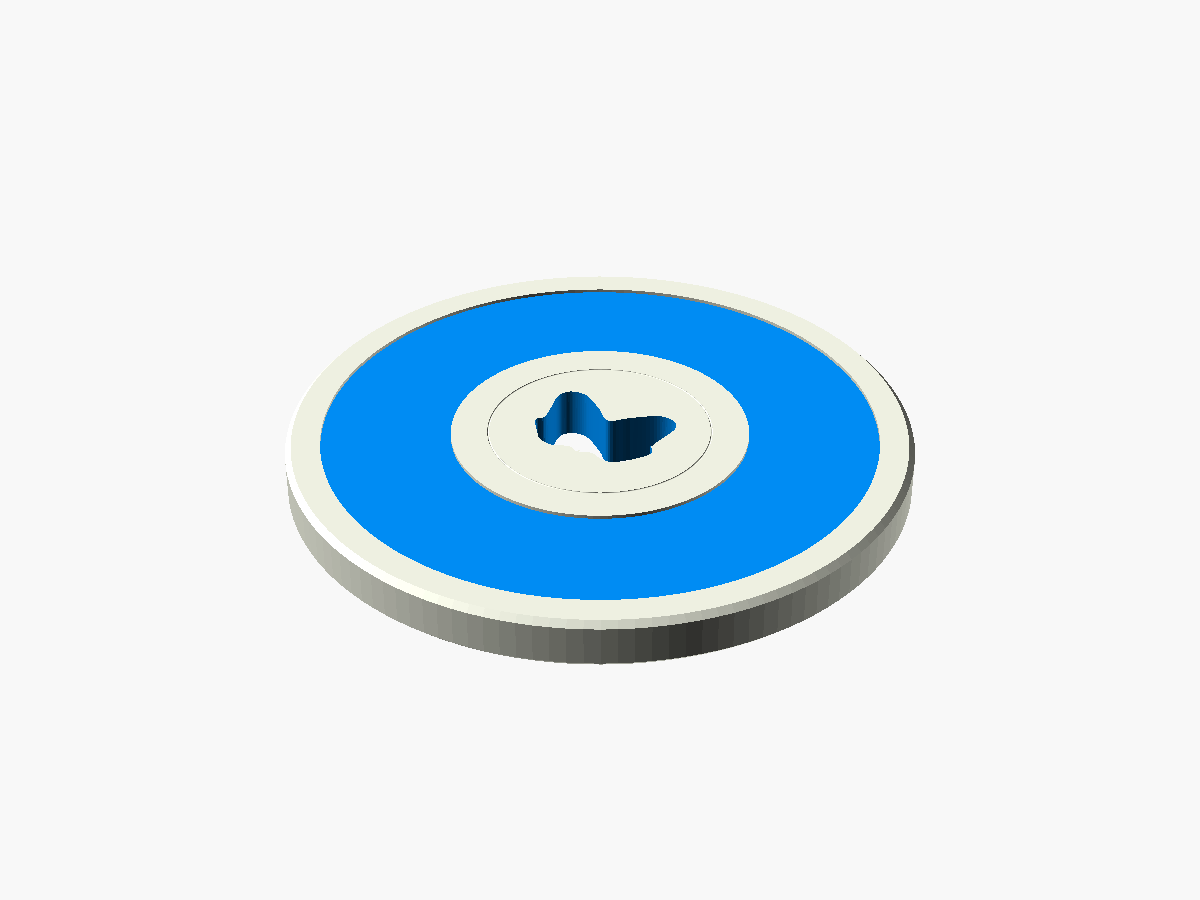
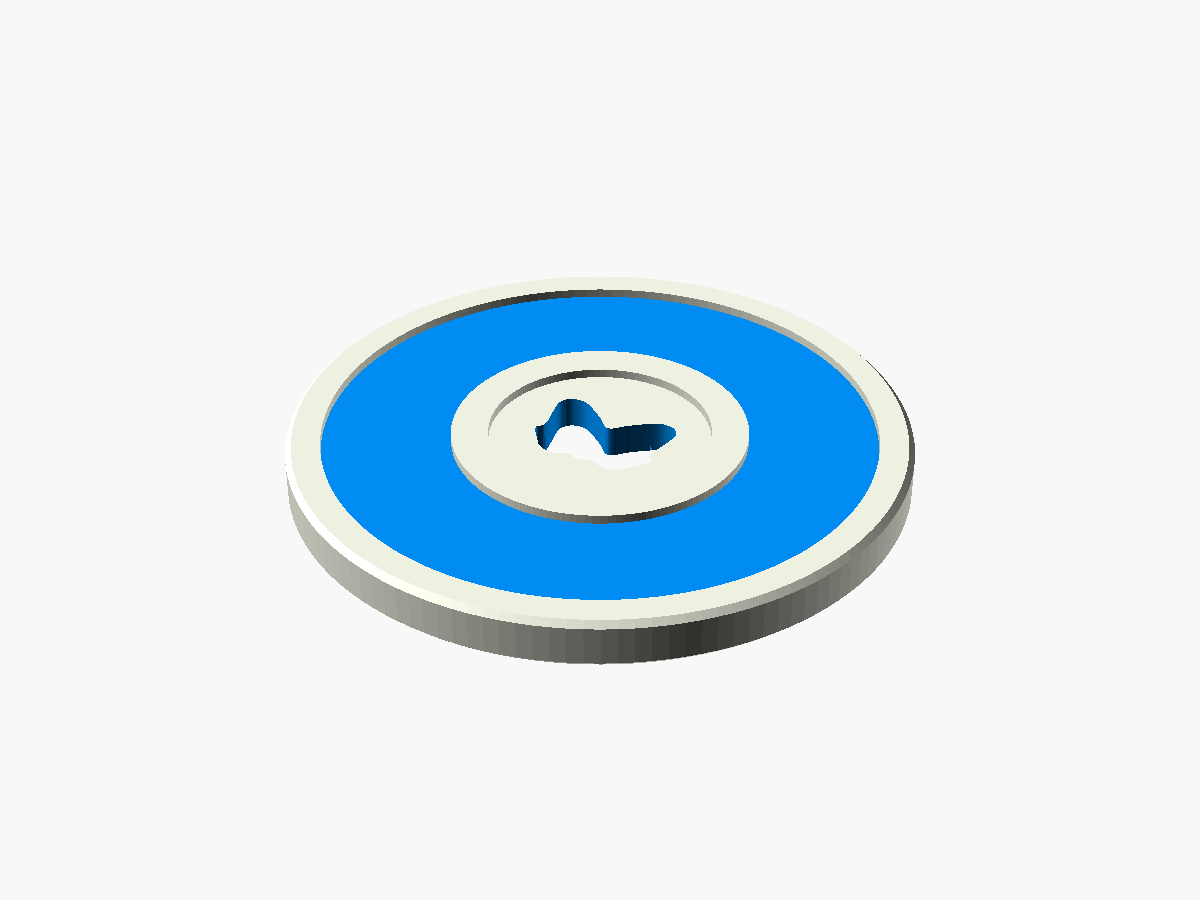
Adjust butterfly token relief profile

diff --git a/blue-white-butterfly-token/README.md b/blue-white-butterfly-token/README.md
@@ -9,8 +9,8 @@ OpenSCAD model of the small round plastic token from the photo reference.
 
 The model is double-sided: the same relief is repeated on the top and bottom.
 It includes the white body, raised outer rim, recessed blue annular inlay,
-central white shelf, one narrow circular groove around the opening, and the rounded
-butterfly/bow-tie through-slot.
+raised central rim, recessed center basin, and the rounded butterfly/bow-tie
+through-slot.
 
 ## Parameters
 
@@ -20,12 +20,12 @@ Important dimensions are at the top of `butterfly_token.scad`:
 |------|---------|
 | `outer_d` | measured outside diameter |
 | `total_h` | total token thickness |
+| `recess_drop` | depth of the blue and center recessed fields |
 | `blue_h` | height of the blue inlay |
 | `blue_surface_drop` | how far the blue surface sits below the white ribs |
 | `outer_rim_w` | width of the outside white rim |
 | `center_r` | radius of the raised center island |
-| `slot_groove_r` | center radius of the single circular groove around the slot |
-| `slot_groove_profile_r` | radius/depth of that narrow groove profile |
+| `slot_basin_r` | radius of the recessed center field around the slot |
 
 Set `part` to export either the complete model or split color parts:
 